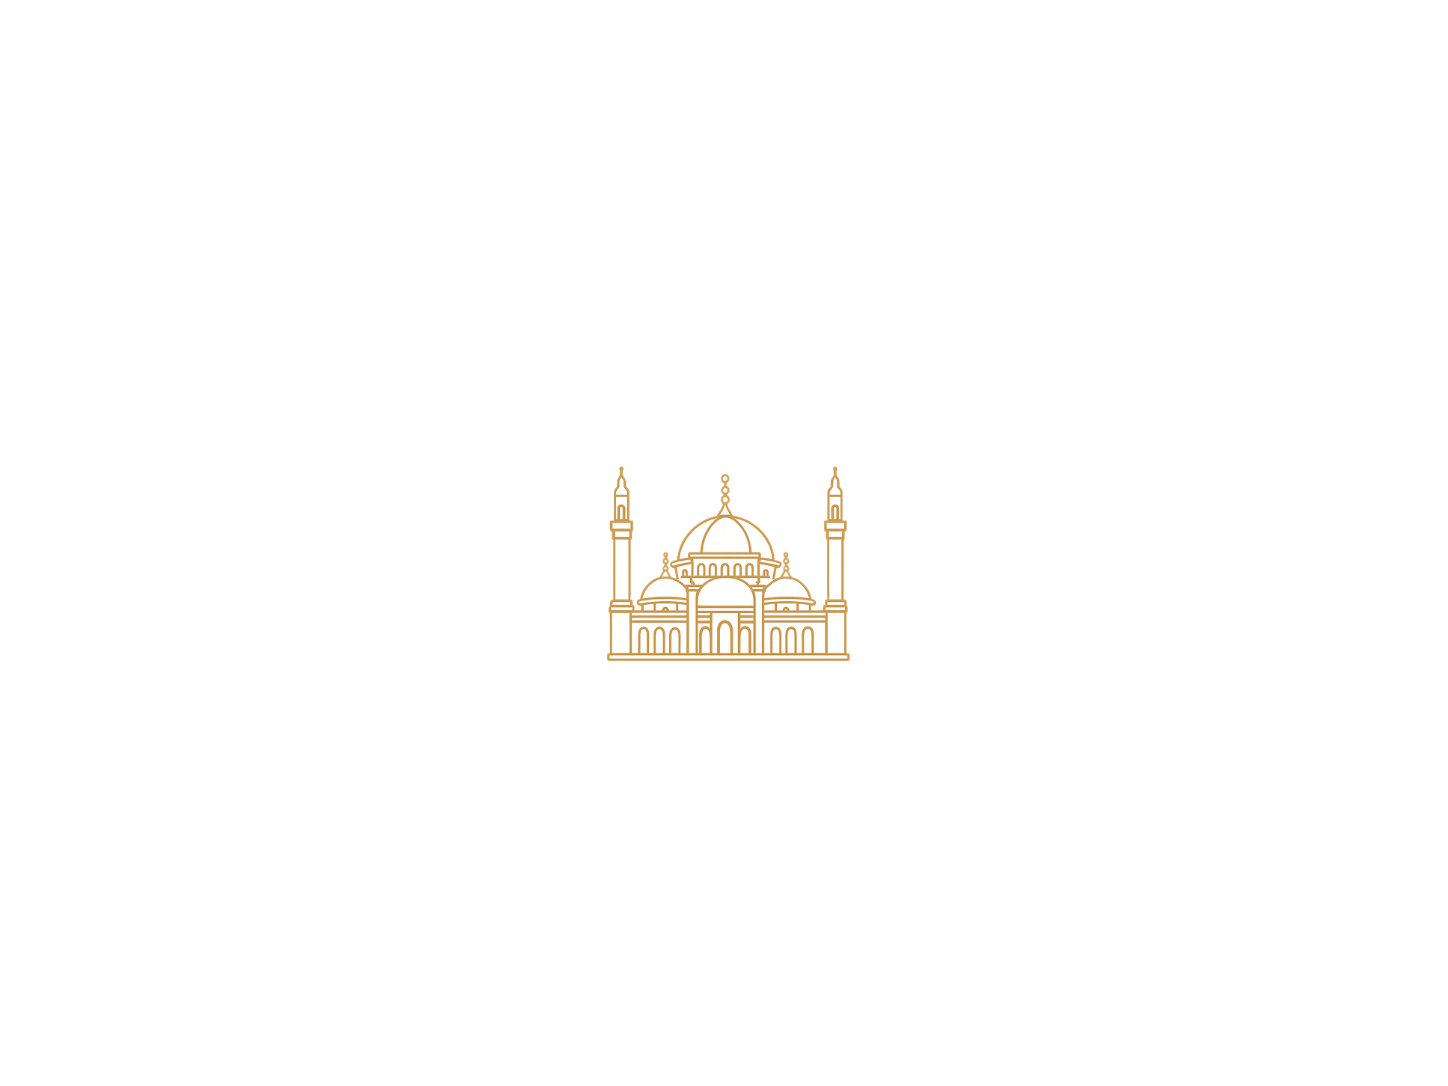
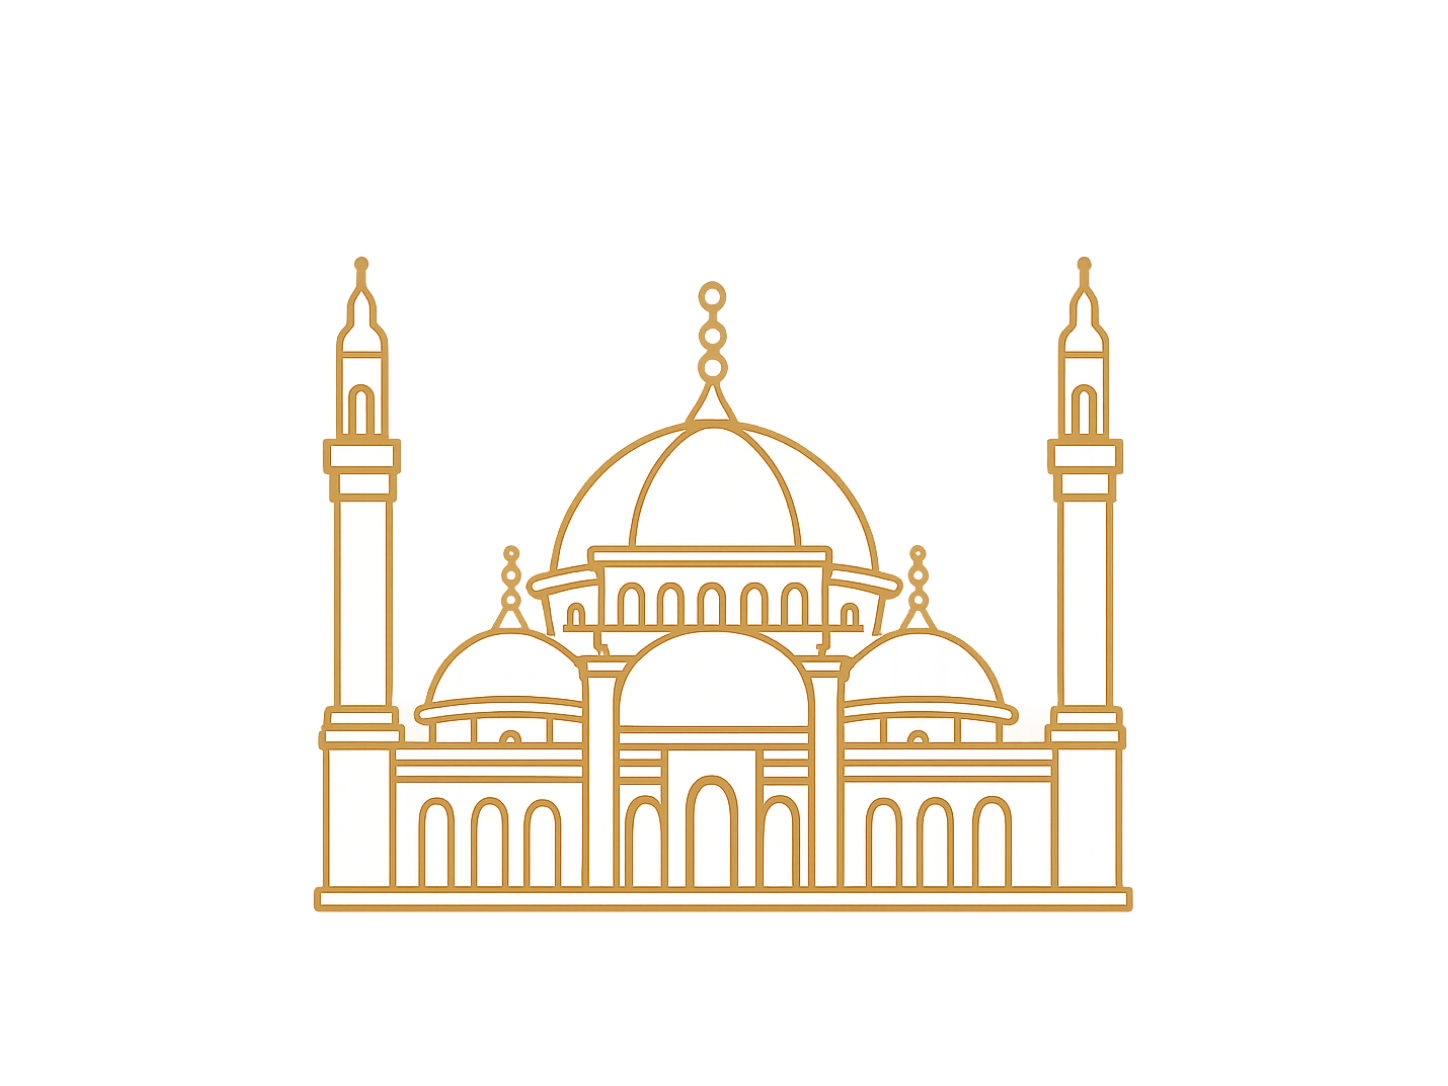
update

Changed region(s): [[0.2175, 0.2431, 0.808, 0.8508]]

diff --git a/invitation.html b/invitation.html
@@ -105,16 +105,12 @@ body{
 
 .location-content{
     width:50%;
-
     display:flex;
     flex-direction:column;
     justify-content:center;
     align-items:center;
-
     text-align:center;
-
     padding:60px;
-
     gap:30px; /* controls spacing */
 }
 
@@ -134,8 +130,10 @@ body{
 }
 
 .location-icon{
-    width:90px;
-    margin-bottom:25px;
+    width:500px;
+    margin:0;
+    padding:0;
+
 }
 
 
@@ -524,23 +522,26 @@ body{
     }
 
     .location-icon{
-        display:none;
-    }
-
+    width:150px;
+    margin:30px auto;
+    display:block;
+}
     .venue{
-        font-size:20px;
+        font-size:21px;
         line-height:1.35;
         margin:0;
 
     }
 
     .location-btn{
-        font-size:18px;
-        padding:12px 30px;
+        font-size:25px;
+        /* padding:12px 30px; */
         display:inline-flex;
         align-items:center;
-        gap:8px;
-        margin-top:4px;
+        /* gap:2px;
+        margin-top:4px; */
+        justify-content:center; 
+
     }
     .save-date{
 
@@ -799,11 +800,11 @@ body{
             alt=""
         >
 
-        <!-- <img
-            src="location-icon.png"
+        <img
+            src="mosque-pin.png"
             class="location-icon"
             alt=""
-        > -->
+        >
 
         <p class="venue">
             Saladin Citadel Mosque<br>
@@ -815,11 +816,11 @@ body{
             target="_blank"
             class="location-btn">
 
-            <img
+            <!-- <img
                 src="location-pin.png"
                 class="pin-icon"
                 alt=""
-            >
+            > -->
             Location
 
         </a>
@@ -929,7 +930,7 @@ body{
         <img src="OM.png" alt="Omar & Menna">
     </div>
 
-    
+
 </section>
 
 <script>
